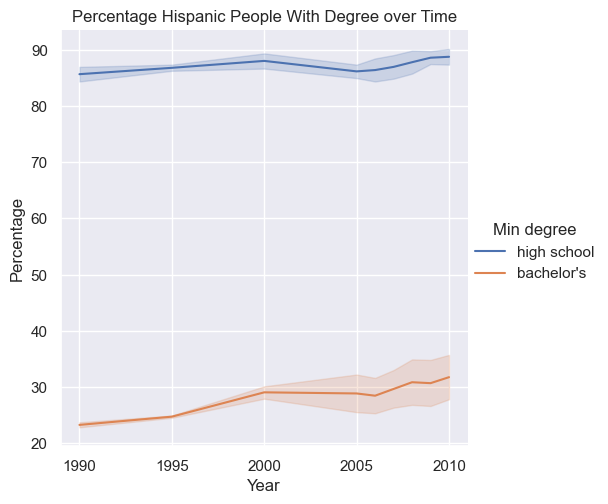
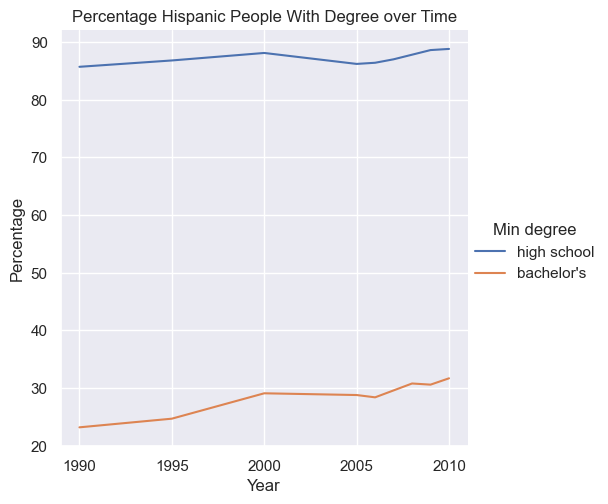
update hispanic

diff --git a/Education/hw3.py b/Education/hw3.py
@@ -79,7 +79,8 @@ def plot_hispanic_min_degree(data):
     mask1 = (data['Year'] >= 1990) & (data['Year'] <= 2010)
     mask2 = (data['Min degree'] == 'bachelor\'s') | (data['Min degree'] == 'high school')
     mask3 = data['Hispanic'] != 'NaN'
-    data = data[mask1 & mask2 & mask3]
+    mask4 = data['Sex'] == 'A'
+    data = data[mask1 & mask2 & mask3 & mask4]
     sns.relplot(data=data, x='Year', y='Total', kind='line', hue='Min degree')
     plt.ylabel('Percentage')
     plt.title('Percentage Hispanic People With Degree over Time')
